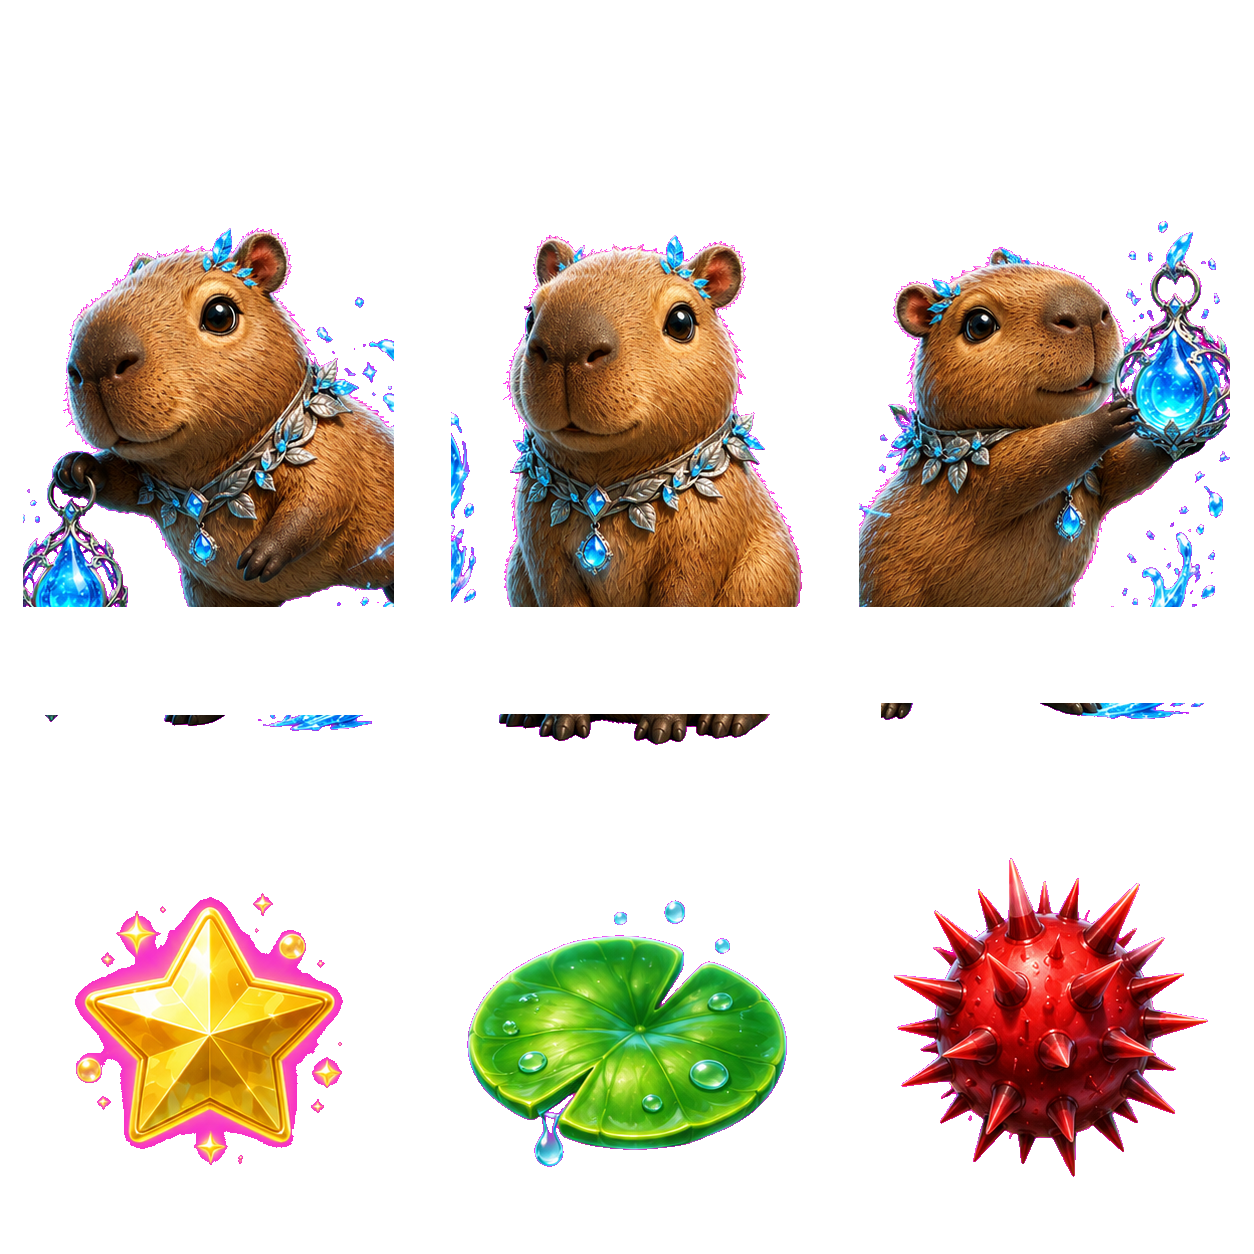
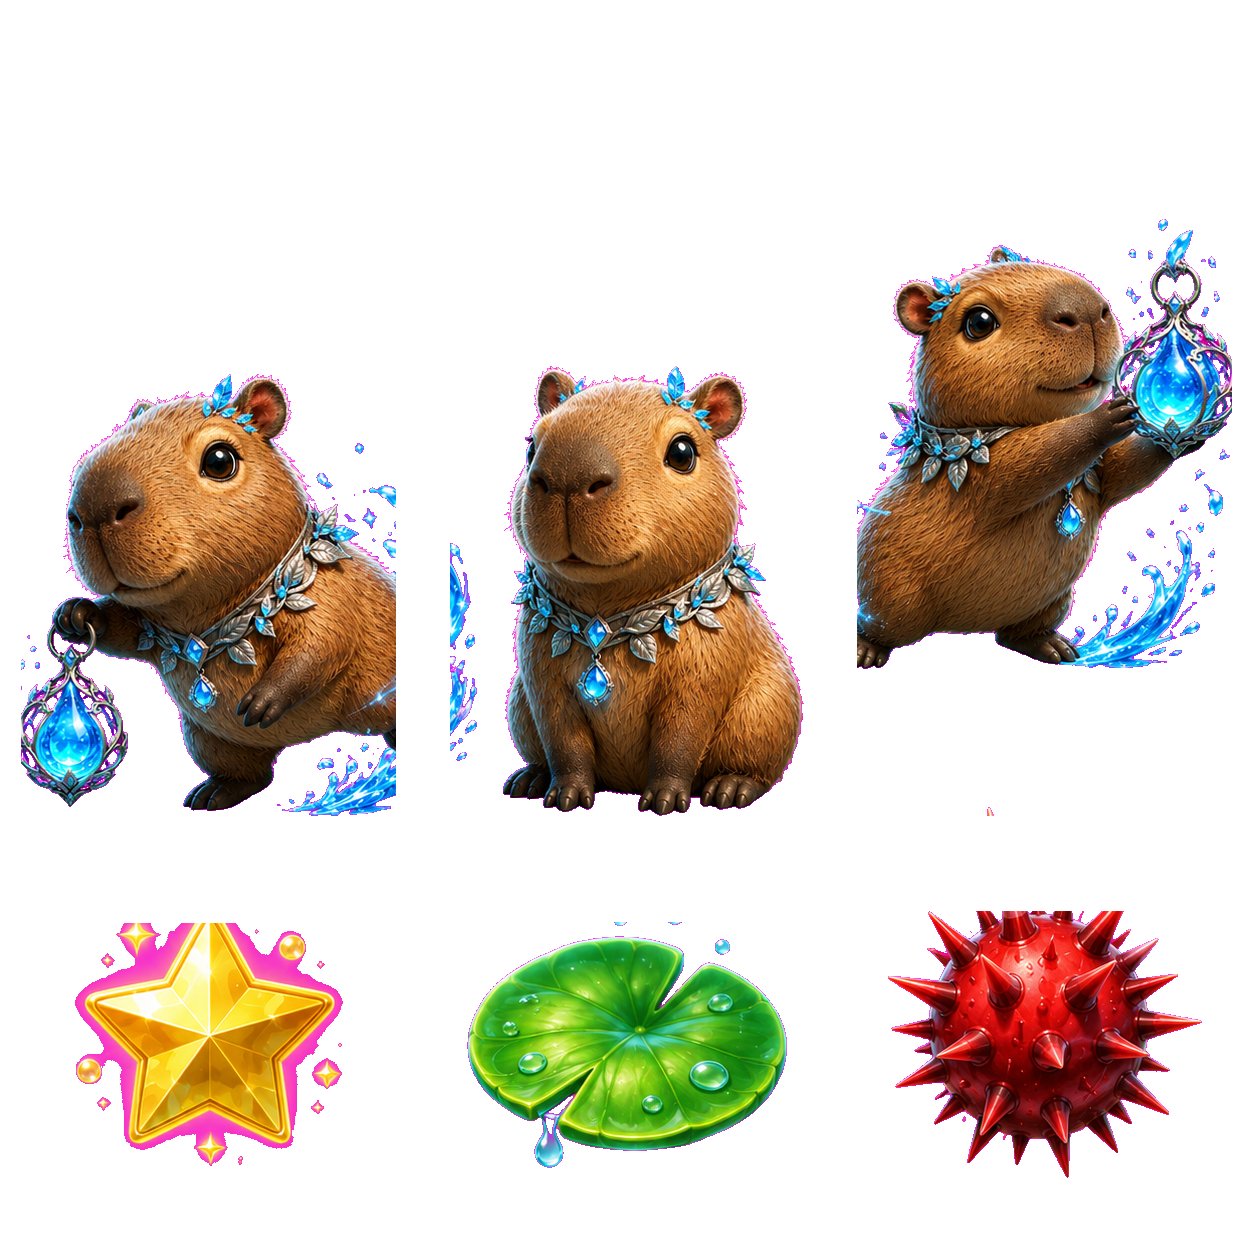
feat: fix row height calculations to 836/418 grid layout to restore full Capybara sprite and remove item head-bleeds

diff --git a/app/components/CatcherGame.tsx b/app/components/CatcherGame.tsx
@@ -274,8 +274,8 @@ export default function CatcherGame({ childId, rewardId, characterId, characterN
     player: {
       x: 370,
       targetX: 370,
-      y: 225, // groundY (325) - height (100)
-      width: 73, // Aspect ratio 0.66 scaled to height 110 (73x110)
+      y: 215, // groundY (325) - height (110)
+      width: 55, // Aspect ratio 0.5 scaled to height 110 (55x110)
       height: 110,
       facingLeft: false,
       catchingTimer: 0,
@@ -530,11 +530,11 @@ export default function CatcherGame({ childId, rewardId, characterId, characterN
         }
 
         g.items.push({
-          x: itemX,
+          x: itemX - 5, // Center the 50px item on the lane
           y: -70,
           vy: 3.5 + Math.random() * 1.5,
-          width: 40,
-          height: 60,
+          width: 50,
+          height: 50,
           type,
           collected: false,
           lane
@@ -552,8 +552,8 @@ export default function CatcherGame({ childId, rewardId, characterId, characterN
         if (!item.collected) {
           // Draw item
           if (spriteImg.complete && spriteImg.naturalWidth > 0) {
-            // Slicing parameters: column width 418, row height 627
-            // Star is index 0, normal index 1, danger index 2 of bottom row (y = 627)
+            // Slicing parameters: column width 418, row height 418 (square)
+            // Star is index 0, normal index 1, danger index 2 of bottom row (y = 836)
             let col = 1;
             if (item.type === "star") col = 0;
             if (item.type === "danger") col = 2;
@@ -570,7 +570,7 @@ export default function CatcherGame({ childId, rewardId, characterId, characterN
 
             ctx.drawImage(
               spriteImg,
-              col * 418, 627, 418, 627, // Source rect
+              col * 418, 836, 418, 418, // Source rect (items row starts at y=836 and has height 418)
               item.x, item.y, item.width, item.height // Destination rect
             );
             ctx.restore();
@@ -650,7 +650,7 @@ export default function CatcherGame({ childId, rewardId, characterId, characterN
           return;
         }
 
-        // Slicing parameters: column width 418, row height 627
+        // Slicing parameters: column width 418, row height 836
         let frameIndex = g.player.frame; // walks between frame 0 and 1
         if (g.player.catchingTimer > 0) {
           frameIndex = 2; // display catching frame
@@ -672,13 +672,13 @@ export default function CatcherGame({ childId, rewardId, characterId, characterN
             ctx.scale(-1, 1);
             ctx.drawImage(
               spriteImg,
-              frameIndex * 418, 0, 418, 627, // Source
+              frameIndex * 418, 0, 418, 836, // Source
               0, 0, g.player.width, g.player.height // Destination
             );
           } else {
             ctx.drawImage(
               spriteImg,
-              frameIndex * 418, 0, 418, 627, // Source
+              frameIndex * 418, 0, 418, 836, // Source
               px, py, g.player.width, g.player.height // Destination
             );
           }

diff --git a/scripts/reprocess-catcher-sheets-v3.py b/scripts/reprocess-catcher-sheets-v3.py
@@ -1,0 +1,117 @@
+import os
+from PIL import Image
+
+def clean_and_center_spritesheet_v3(input_path, output_path):
+    print(f"Reprocessing spritesheet {os.path.basename(input_path)} with v3 layout...")
+    img = Image.open(input_path).convert("RGBA")
+    
+    # Chroma-key background extraction
+    datas = img.getdata()
+    key_color = datas[0]
+    kr, kg, kb = key_color[0], key_color[1], key_color[2]
+    tolerance = 45
+    
+    clean_data = []
+    for item in datas:
+        r, g, b, a = item[0], item[1], item[2], item[3]
+        dist = ((r - kr) ** 2 + (g - kg) ** 2 + (b - kb) ** 2) ** 0.5
+        if dist < tolerance:
+            clean_data.append((0, 0, 0, 0))
+        else:
+            clean_data.append((r, g, b, a))
+    
+    img.putdata(clean_data)
+    
+    w, h = img.size
+    cell_w = 418
+    # Row 0: Character height 836. Row 1: Item height 418.
+    row0_h = 836
+    row1_h = 418
+    
+    new_img = Image.new("RGBA", (w, h), (0, 0, 0, 0))
+    
+    # Process Row 0 (Characters)
+    for col in range(3):
+        cell = img.crop((col * cell_w, 0, (col + 1) * cell_w, row0_h))
+        core = cell.copy()
+        core_pixels = core.load()
+        
+        # Erase borders to sever bleed
+        border_x = 22
+        border_y = 22
+        for x in range(cell_w):
+            for y in range(row0_h):
+                if x < border_x or x > cell_w - border_x or y < border_y or y > row0_h - border_y:
+                    core_pixels[x, y] = (0, 0, 0, 0)
+                    
+        bbox = core.getbbox()
+        if bbox:
+            obj = core.crop(bbox)
+            new_cell = Image.new("RGBA", (cell_w, row0_h), (0, 0, 0, 0))
+            obj_w, obj_h = obj.size
+            dest_x = (cell_w - obj_w) // 2
+            # Align character bottom with a 20px ground margin
+            dest_y = row0_h - obj_h - 20
+            new_cell.paste(obj, (dest_x, dest_y))
+            new_img.paste(new_cell, (col * cell_w, 0))
+        else:
+            print(f"  Warning: No character found in column {col}")
+            
+    # Process Row 1 (Falling Items)
+    for col in range(3):
+        cell = img.crop((col * cell_w, row0_h, (col + 1) * cell_w, row0_h + row1_h))
+        core = cell.copy()
+        core_pixels = core.load()
+        
+        # Erase borders to sever bleed
+        border_x = 22
+        border_y = 22
+        for x in range(cell_w):
+            for y in range(row1_h):
+                if x < border_x or x > cell_w - border_x or y < border_y or y > row1_h - border_y:
+                    core_pixels[x, y] = (0, 0, 0, 0)
+                    
+        bbox = core.getbbox()
+        if bbox:
+            obj = core.crop(bbox)
+            new_cell = Image.new("RGBA", (cell_w, row1_h), (0, 0, 0, 0))
+            obj_w, obj_h = obj.size
+            dest_x = (cell_w - obj_w) // 2
+            # Center item vertically in its square cell
+            dest_y = (row1_h - obj_h) // 2
+            new_cell.paste(obj, (dest_x, dest_y))
+            new_img.paste(new_cell, (col * cell_w, row0_h))
+        else:
+            print(f"  Warning: No item found in column {col}")
+            
+    new_img.save(output_path, "PNG")
+    print(f"Successfully saved clean v3 spritesheet to {output_path}")
+
+def main():
+    src_dir = "images/2 - hunter"
+    dest_dir = "public/images/bonus-games/catcher"
+    assets = [
+        ("2 - Капибара — Капи.png", "02_capybara_kapi.png"),
+        ("14 - Буйволёнок — Гром.png", "14_buffalo_grom.png"),
+        ("17 - Носорог — Титан.png", "17_rhino_titan.png"),
+    ]
+    
+    for src_name, dest_name in assets:
+        src_path = os.path.join(src_dir, src_name)
+        dest_path = os.path.join(dest_dir, dest_name)
+        
+        # Resolve potential naming/normalization issues
+        if not os.path.exists(src_path):
+            prefix = src_name.split(" ")[0]
+            for f in os.listdir(src_dir):
+                if f.startswith(prefix) and f.endswith(".png"):
+                    src_path = os.path.join(src_dir, f)
+                    break
+                    
+        if os.path.exists(src_path):
+            clean_and_center_spritesheet_v3(src_path, dest_path)
+        else:
+            print(f"Error: Source asset {src_name} not found.")
+
+if __name__ == "__main__":
+    main()
